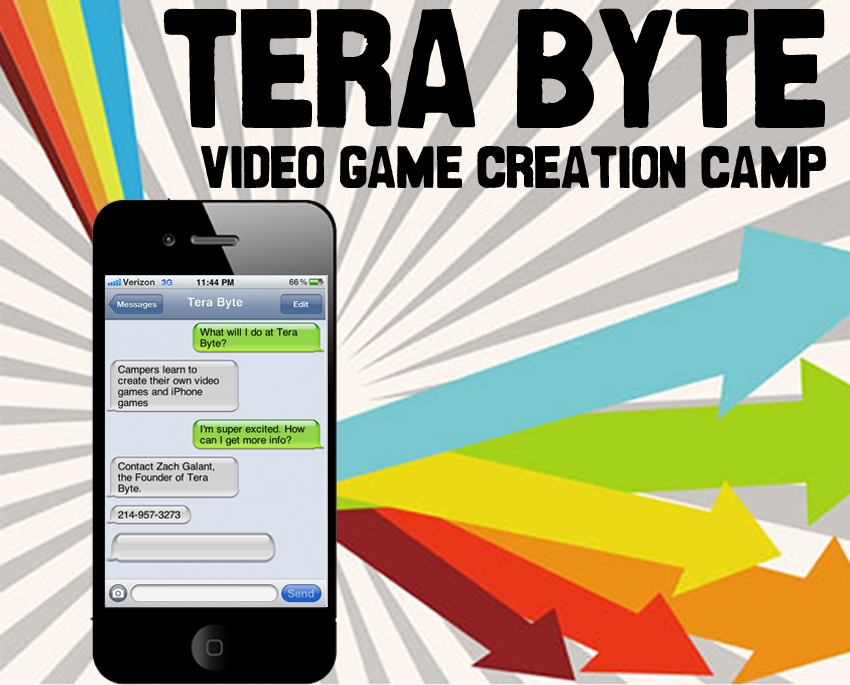
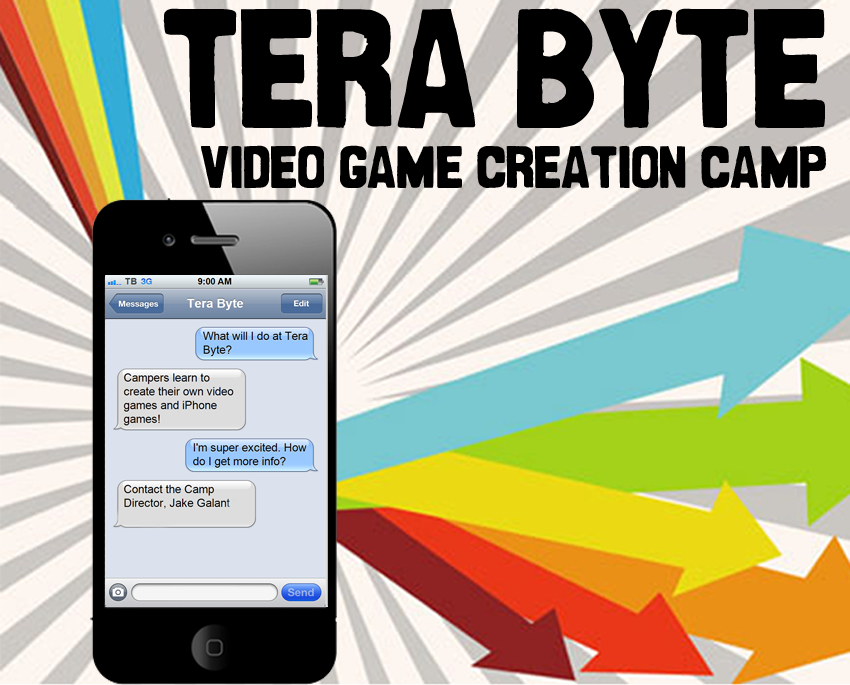
update text, bg

Changed region(s): [[0.1224, 0.3985, 0.3976, 0.8891]]

diff --git a/style.css b/style.css
@@ -1,5 +1,5 @@
 body {
-	background: url('images/bg.png') repeat-x;
+	background: url('images/bg.png') repeat;
 	text-align: center;
 	line-height: 0;
 	padding: 0px 0 0 0;
